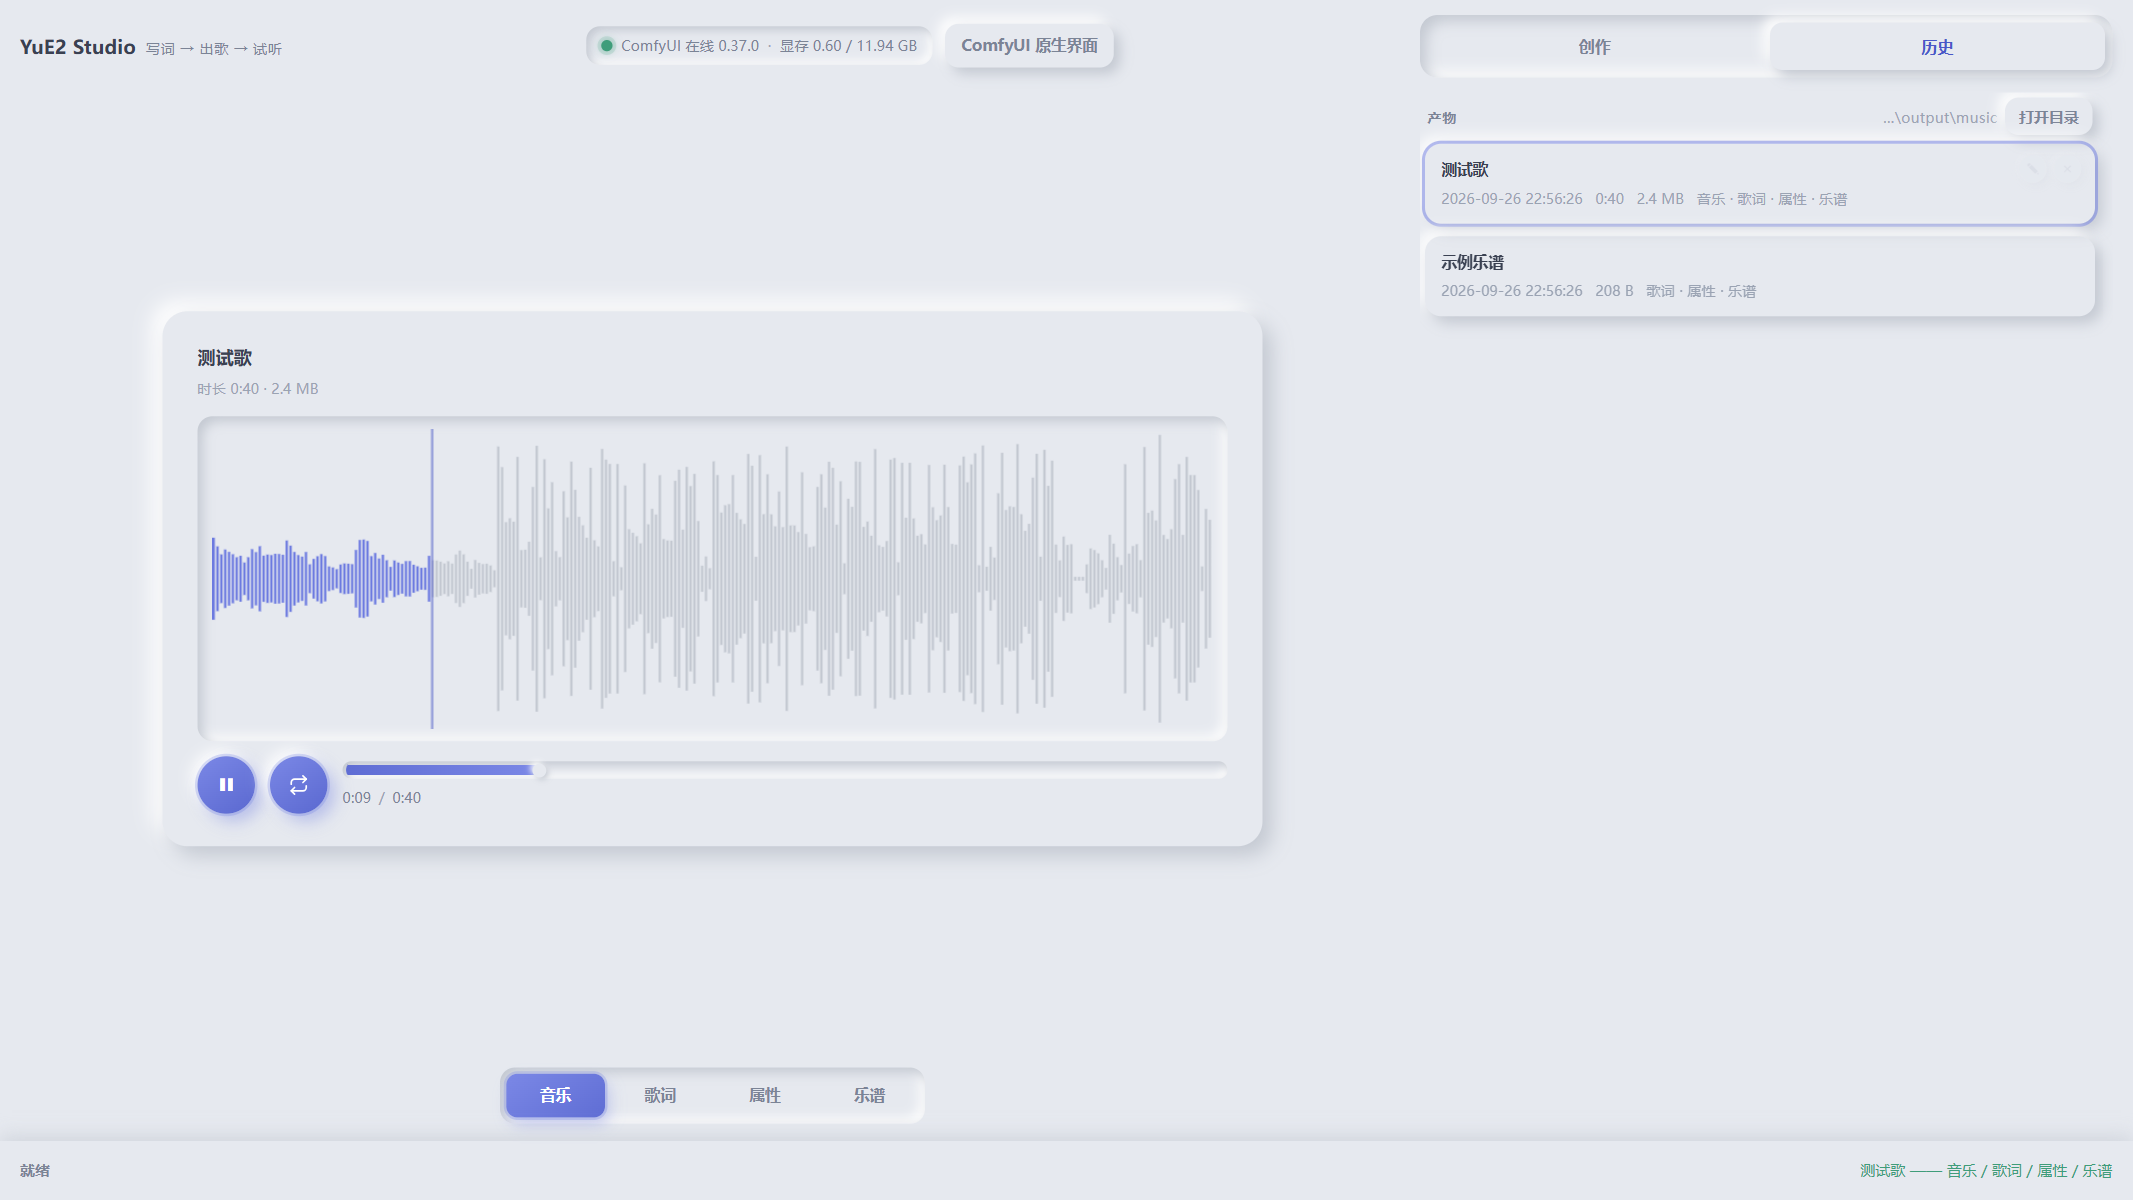
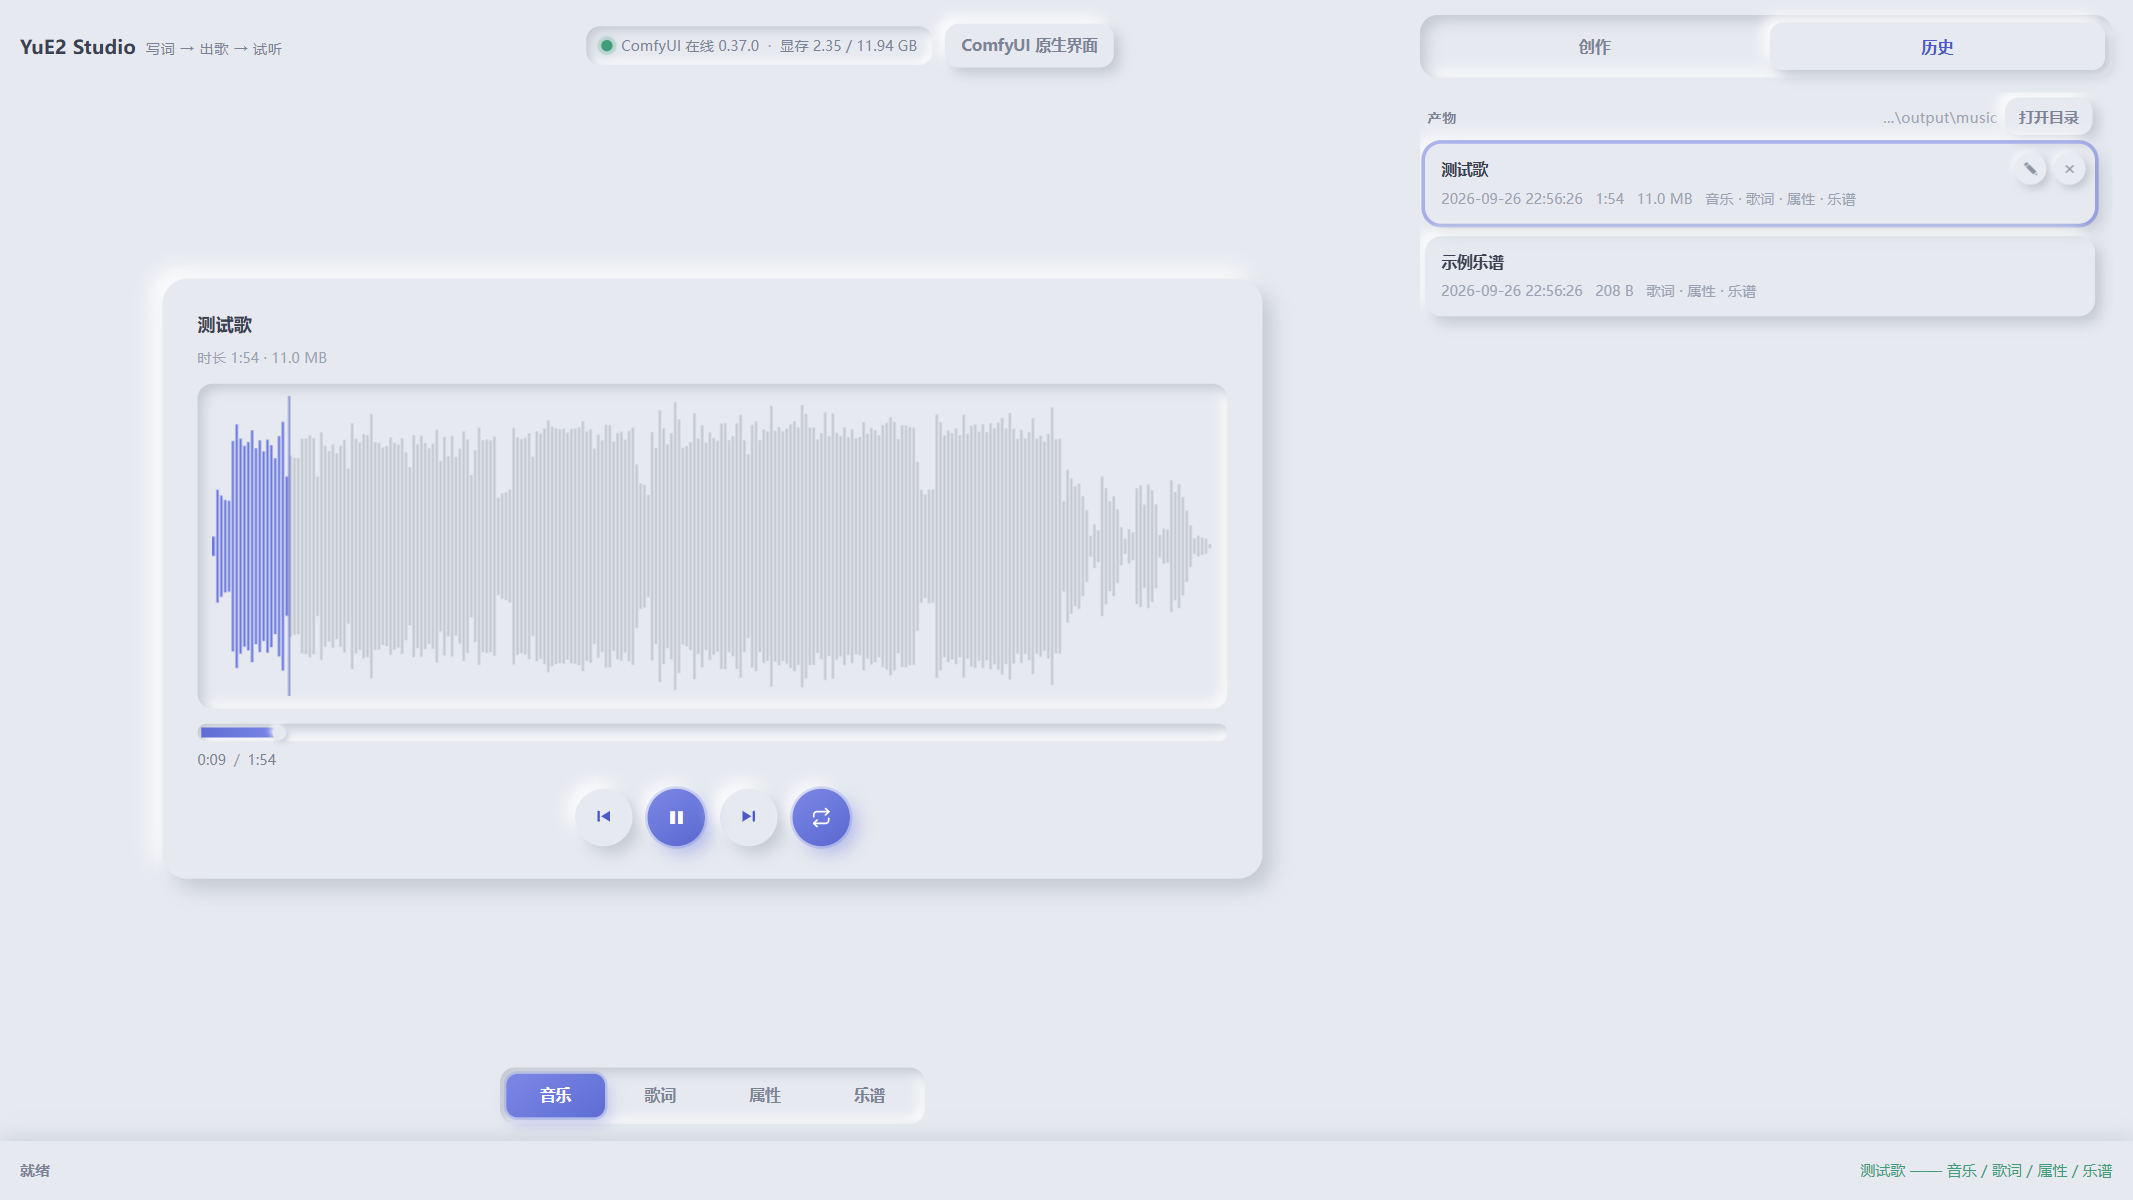
文档与截图跟上：纯音乐两段式口径、四钮行、重拍4张播放页截图

Changed region(s): [[0.0928, 0.2467, 0.5879, 0.5858], [0.0928, 0.5858, 0.5879, 0.74], [0.7426, 0.1542, 0.8664, 0.185]]

diff --git a/docs/MUSIC_NOTES.md b/docs/MUSIC_NOTES.md
@@ -143,6 +143,22 @@ ComfyUI 侧 `lyrics` 只是 `clip.tokenize(style, lyrics=lyrics, …)` 的字符
 女声+空词 → 400/前端拦截且不发请求；纯音乐+空词 → 全流程真跑通（`mode full`，85.6 s 采样，
 产出 60.0 s 的 `.flac` + `.abc` + 参数 `lyrics: ""`）。歌词页空词时按风格分流：
 风格含纯音乐 → 「纯音乐 —— 这一首没有歌词。」，否则才是原来的「没存参数/纯乐谱条目」。
+**纯音乐 = 官方两段式：写谱 → 人声线搬进乐器轨 → 照转换谱生成**（2026-09-27 用户报
+「纯音乐听着有歌词」，三层证据 + 定案）：
+① `mode=full` 直接生成：ABC 节点拿**空词**也写出 `% verse` 的 Vocal 主旋律（实测 `像素小冒险.abc`），
+音乐节点照谱唱、没词就自己造词 —— 用户耳朵实锤，faster-whisper 转出16段成结构的词（正对照逐字命中）；
+② 改 `off` 不写谱、style 只留 tags：**照样唱** —— 三轮实测（中文 tags / 英文追加 / 官方措辞
+`Instrumental, …, no vocals` 打头）ASR 跨解码文本几乎逐字一致（`lp -0.52~-0.70`），style-only 压不住；
+③ 官方正解（m-a-p/YuE `skills/yue2-music/instrumental/SKILL.md`，MIT）：**规划器写谱 → 把 Vocal
+音符整体搬到 Ins（Vocal 只留休止与和弦）→ 照转换后的谱生成**；转换核心已 vendor 进
+`vendor/yue_instrumental/`（instrumentalize/abc_tools/compile_score/common + LICENSE，纯标准库，
+在 ComfyUI 产的真谱上一次通过：Vocal 剩 0 音符、363 音符全进 Ins、自校验全绿）。
+面板落地：`_parse_params` 给纯音乐的 style 加官方措辞前缀 `Instrumental, no vocals, `、
+**拒绝 mode=off**（明说原因）；`_run_songs` 检出纯音乐 → `_plan_and_convert()` 两段式
+（阶段「乐谱规划中 → 转谱中（人声 → 乐器）→ 采样中」，失败换 seed 重试一次、再失败给人话停住，
+**绝不退回直接生成**）；`graph_song(..., abc_text=)` 把转换谱当字面量喂音乐节点 + PreviewAny
+（落盘 `.abc` 与音频一致）；`normalize_autotune` 对纯音乐强制 `ch.mode="full"`、提示词同步；
+前端 `applyInstrumentalRules` 把乐谱规划从 off 拉回 full 并播报。
 **空状态无框居中**（同日用户口径「占位有点丑，界面中间显示文字、不要框」）：`renderLyrics()` 空分支给
 `#lyricsBox` 挂 `bare` 类 —— 盒子的内凹阴影与 padding 全部关掉、`display:flex` 让那行字**水平垂直都居中**
 （实测 dx/dy=0）；有歌词时摘掉 `bare`，原来的盒子原样回来（来回切歌验过两向）。
@@ -166,13 +182,19 @@ ComfyUI 侧 `lyrics` 只是 `clip.tokenize(style, lyrics=lyrics, …)` 的字符
 同一首的参数在「属性」页随时能翻，创作页清干净更好写下一首。）
 
 **播放台**：`fetch(/song)` → WebAudio `decodeAudioData` → 每 260 段取峰值画柱，解不出来退化成普通进度条。
-**播放模式**（2026-09-27 加，**暂停键右边的圆形按钮** `#btnLoop`（`.pbtn`，和播放键同款）三档轮换：
-历史循环（默认）/ 单曲循环 / 随机播放 —— 按用户裁决**去掉了「循环关」档**，播完永远接着放；
+**播放模式**（2026-09-27 加，**播放条下一行** `#pbtns` 里的圆形按钮三档轮换：
+**上一首 | 播放/暂停 | 下一首 | 播放模式**（模式键在最右，`.pbtn` 46×46 居中一排；
+四钮都没加载歌时 disabled）：历史循环（默认）/ 单曲循环 / 随机播放 —— 按用户裁决**去掉了「循环关」档**，播完永远接着放；
 图标是**自画 inline SVG**（历史 = 循环箭头、单曲 = 循环里带 1、随机 = 交叉箭头，
 `LOOP_ICONS` 里换，档位名放 `title`/`aria-label`/状态栏）：`ended` 之后由
 `playAfterEnd()` 接管 —— 单曲 = `currentTime=0` 重播；历史 = 按 `songs` 的**展示序**
 （新在前）取下一首、尾接头（怎么接见下「接歌不跳页」）；随机 = 从**有音频**的条目里挑一首非当前的
 （列表只有一首就重播）。只有 `it.song` 非空的条目参与接歌（只出过乐谱的卡播不了，跳过）。
+**上一首 / 下一首按钮**（`#btnPrev`/`#btnNext`，同日加）：与自动续播共用 `neighborSong(dir)` ——
+历史循环**和单曲循环**都按列表**顺序**切换（用户口径：单曲档的按钮别被"单曲"绑住），
+随机档**真的随机**（上一首也随机）；点击走 `jumpSong(dir)` → `advanceGroup`（页面不跳），
+只有这一首时 = 重播本首。实测：顺序 next/next/prev 命中列表公式；单曲档 next 仍换歌、prev 回退；
+随机档连点5次落点3种且每必换歌；单曲档伪造 `ended` 仍重播本首（t=1.15 起）。
 **接歌不跳页**（2026-09-27 用户口径：「页面不变，但歌曲切换」—— 歌词页就还是歌词页，内容换新歌的）：
 `playAfterEnd` 走 `advanceGroup(it, play)` 而不是点卡片的 `openGroup` —— `openGroup` 会
 `showMain('music')` 强制跳页；`advanceGroup` 只做 `curStem → loadSong →（当前页是乐谱才）loadAbc
@@ -234,13 +256,16 @@ ComfyUI 侧 `lyrics` 只是 `clip.tokenize(style, lyrics=lyrics, …)` 的字符
 | GET | `/text?name=` | ABC 文本（`text/plain; charset=utf-8`） |
 
 状态机：同一时刻**只跑一个作业**（`count>1` 时循环，`index` 递增），`phase` 走
-`准备中 → 乐谱规划中 → 采样中 → 解码中 → 完成/失败/已取消`（下载任务是 `下载中`）。
+`准备中 → 乐谱规划中 → 采样中 → 解码中 → 完成/失败/已取消`（纯音乐两段式在规划后多一相
+`转谱中（人声 → 乐器）`；下载任务是 `下载中`）。
 作业结束后 `job` 保留到下一次任务开始，`busy` 只在真跑着时非空。
 
 ## 出歌图：怎么把同次生成的乐谱一起取出来
 
 `mode != off` 时 `graph_song()` 除了 `YuE2GenerateABC(24)` 还挂一个 **`PreviewAny(14)`**
 （`{"source":["24",0]}`）。没有它，`/history` 的 `outputs` 里**就没有 `text`** —— 谱拿不到，配对也无从谈起。
+**纯音乐两段式**例外：不提交 `24`，`PreviewAny(14)` 的 `source` 直接挂**转换后的谱字面量**
+（`graph_song(..., abc_text=)`），`/history` 照样有 `text` → 落盘 `.abc` 与音频一致。
 出完歌 `_run_songs()` 把 `outputs` 里的 ABC 写成 **`<同一个 stem>.abc`**（与 `<stem>.flac`、`<stem>.json` 同名），
 前端按 stem 分组 → 这一首自然就有「音乐 / 乐谱 / 属性」三页。`mode=off` 不提交 ABC 节点 ⇒ 没有谱那一页。
 
